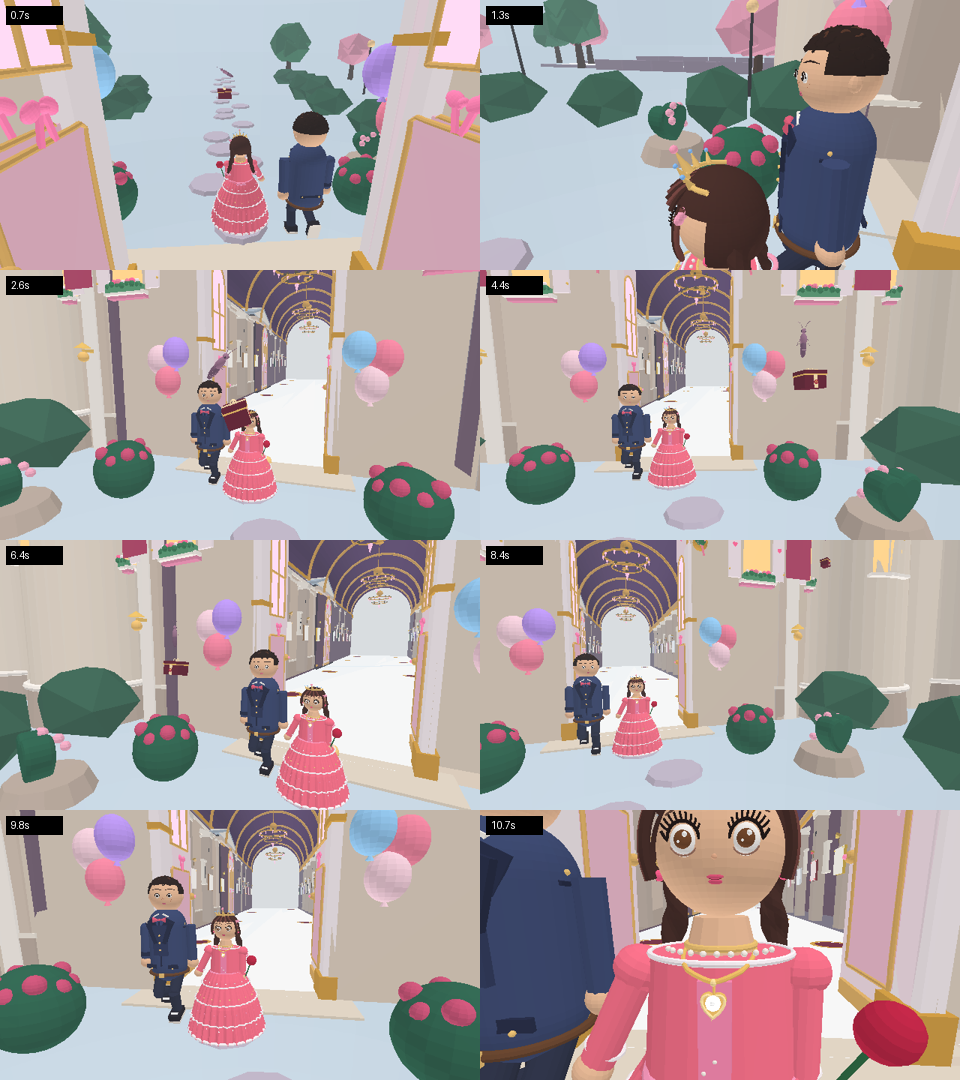
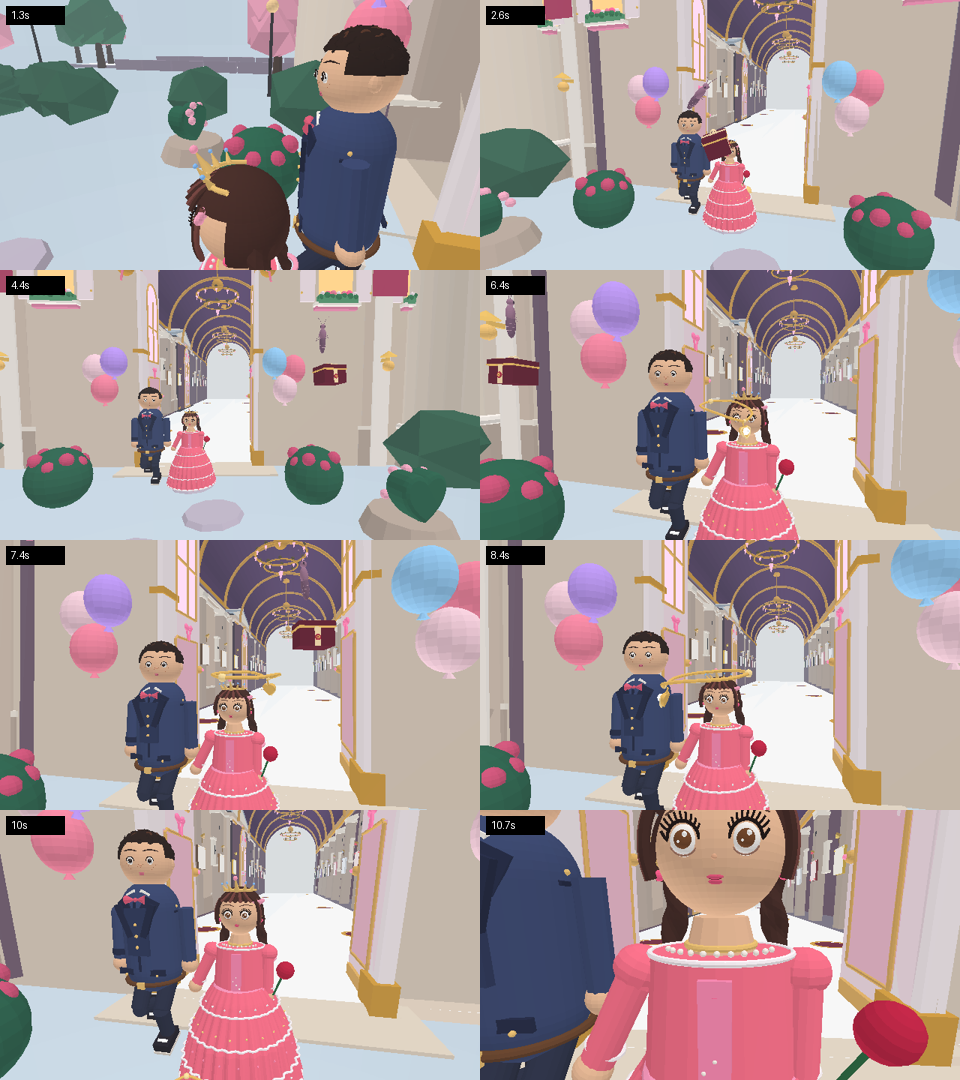
From the box opening, the necklace is the shot
The scene is about one object and the camera was filming everything
except it: the necklace rose out of the box behind the couple's
shoulders, two to three metres from any camera that could stand in the
garden, and the shot was pointed at the butterfly as she circled. At
that distance a five-centimetre pendant is nine pixels.

So the necklace turns in the open now (1.5 m in front of her, at her
eye level, a little to her side, rather than over her shoulder), and
from the moment the lid lifts the film travels in on it, along its own
aim line, to 0.78 m -- where the chain is about 170 px tall at 1080p and
the stone reads as a stone. It holds that through the turn, then hands
straight over to the pendant shot on her chest as it settles. Nobody's
back is in the shot at any point: the standoff is always on the garden
side of the pendant, so the camera is in front of them, not behind.

Also in this pass:

- the pendant used to spin at a constant rate, so it was showing its
  back whenever the camera happened to look; it now makes one slow turn
  that eases to a stop facing front, in time for the landing.
- the camera was passed null for the necklace's position and so was the
  test that was supposed to check this; both now use its real world
  position (the stone, not the chain's centre).
- the butterfly's flight had two teleports at stage joins (2.6 m and
  1.9 m in single frames); joins are blended, largest frame step 0.22 m.

153 tests, build clean.

diff --git a/src/gift-camera.js b/src/gift-camera.js
@@ -72,14 +72,19 @@ const FOLLOW_WEIGHT = [[0, 1], [1.15, 0], [11.5, 0], [GIFT_SECONDS, 1]];
 // has to stand somewhere that exists: the garden. That is also why it never orbits her at close range; the
 // doorway is 3 m wide and the walls are 3.85 m either side, and a swing round her at 2 m is a path through
 // masonry (measured: a sixth of the film was inside the wall, starting at 0.8 s).
-const OUT = [[0, -4.93], [0.7, -3.6], [1.3, -0.2], [2.0, 2.6], [2.6, 3.9], [5.4, 3.7], [7.6, 3.3], [9.4, 2.9], [10.0, 1.7], [10.7, 0.62], [11.4, 0.9], [11.9, 2.2], [12.3, 2.2], [GIFT_SECONDS, -4.93]];
+const OUT = [[0, -4.93], [0.7, -3.6], [1.3, -0.2], [2.0, 2.6], [2.6, 3.9], [5.0, 4.2], [6.2, 3.4], [9.2, 3.0], [10.2, 1.7], [10.7, 0.62], [11.4, 1.6], [11.9, 2.2], [12.3, 2.2], [GIFT_SECONDS, -4.93]];
 // Metres to the side of that axis (her right, when she is walking out).
 const SIDE = [[0, 0], [0.7, 0.42], [1.3, 0.72], [2.0, 1.0], [2.6, 0.95], [2.6, 0.95], [5.4, 0.85], [7.6, 0.72], [9.4, 0.6], [10.7, 0.06], [11.3, 0.6], [11.8, 1.0], [12.2, 1.1], [GIFT_SECONDS, 0]];
 // Height above her throat.
-const HEIGHT = [[0, 2.56], [0.7, 1.3], [1.3, 0.8], [2.0, 0.95], [2.6, 1.2], [5.4, 1.08], [7.6, 0.95], [9.4, 0.8], [10.0, 0.5], [10.7, 0.1], [11.4, 0.35], [11.9, 1.2], [12.3, 2.0], [GIFT_SECONDS, 2.56]];
-// How much of the frame belongs to the butterfly. Full through the open-the-box and the circle; dropped only at
-// the end, when the necklace is what we are looking at.
-const AIM_FAIRY = [[0, 0], [1.3, 0], [2.1, 0.85], [2.9, 1], [8.8, 1], [9.5, 0.2], [10.0, 0]];
+const HEIGHT = [[0, 2.56], [0.7, 1.3], [1.3, 0.8], [2.0, 0.95], [2.6, 1.2], [5.2, 0.8], [5.6, 0.5], [6.6, 0.55], [7.6, 0.52], [8.8, 0.48], [9.4, 0.45], [10.0, 0.42], [10.7, 0.1], [11.4, 0.35], [11.9, 1.2], [12.3, 2.0], [GIFT_SECONDS, 2.56]];
+// How much of the frame belongs to the butterfly: while she comes down with the box, and while the lid is
+// opening. From the moment the necklace leaves the box she is not the subject any more -- the necklace is -- so
+// this falls away before it lifts.
+const AIM_FAIRY = [[0, 0], [1.3, 0], [2.1, 0.85], [2.9, 1], [4.8, 1], [5.4, 0]];
+// How much belongs to the *necklace*, once it is out of the box and turning in the air. It is a small, bright
+// object against the castle, and it is the thing the whole scene is about: the camera holds it, close, rather
+// than filming the couple's backs while it floats past. Handed over to "on her neck" when it lands.
+const AIM_GIFT = [[0, 0], [5.0, 0], [5.5, 0.4], [6.4, 1], [9.2, 1], [9.7, 0]];
 // What it is pointed at when it is *not* the butterfly: her throat, sliding a little off dead centre once the
 // camera is round in front of her.
 const LOOK_AIM = [[0, 0], [9.6, 0], [10.4, 0.5], [11.0, 0.55], [GIFT_SECONDS, 0]];
@@ -106,11 +111,12 @@ function frameOf(couple) {
 // One frame of the film.
 //
 // `couple` is { x, z, yaw, neckY, focusY, follow }: her throat's height, the walking camera's aim, and the
-// walking camera's own position this frame (which the film starts and ends on). `fairy` is a world position or
-// null; `neck` is unused (the aim is authored, not chased). Returns the camera position, the look target, a
-// mild roll in radians, a 0..1 `closeness` for the caller's vignette, and the shot's name.
-export function giftCamera(t, couple, fairy, neck, out = {}) {
-  void neck;
+// walking camera's own position this frame (which the film starts and ends on). `fairy` is the butterfly's world
+// position while she is flying, or null. `necklace` is where the necklace is *this frame* -- in the box, in the
+// air, or on her -- and from 5.4 s it is what the film is pointed at.
+// Returns the camera position, the look target, a mild roll in radians, a 0..1 `closeness` for the caller's
+// vignette, and the shot's name.
+export function giftCamera(t, couple, fairy, necklace, out = {}) {
   const f = frameOf(couple);
   // The close-up stands *outside* the castle, and that is not the same as in front of her nose: a player can
   // leave the doorway at an angle, or even walking back towards the facade. `outYaw` is the direction that is
@@ -151,6 +157,7 @@ export function giftCamera(t, couple, fairy, neck, out = {}) {
   // Her throat, with the butterfly's weight on top of it. `fairy` is her world position (main.js passes it while
   // she is returning, null once she has gone); if it is missing the film simply behaves as it did before.
   const aimAtFairy = keyed(AIM_FAIRY, t) * (fairy ? 1 : 0) * (1 - w);
+  const aimAtGift = keyed(AIM_GIFT, t) * (necklace ? 1 : 0) * (1 - w);
   const aim = keyed(LOOK_AIM, t);
   const lookY = mix(neckY + keyed(LOOK_ABOVE, t), focusY, w);
   const neckAim = {
@@ -163,6 +170,7 @@ export function giftCamera(t, couple, fairy, neck, out = {}) {
   // dragging the camera up after her and leaving them out of the bottom of it.
   const fairyAimY = Math.min(Math.max(fairy ? fairy.y : neckY, neckY + 0.45), neckY + 0.86);
   const fairyAim = fairy ? { x: fairy.x, y: fairyAimY, z: fairy.z } : neckAim;
+  const giftAim = necklace ? { x: necklace.x, y: necklace.y, z: necklace.z } : neckAim;
   // Aim *between* them rather than at either: she circles at 2 m to the couple's side, and a camera that simply
   // points at her drops them out of the bottom of the frame -- which is what it looked like.
   const mid = {
@@ -170,7 +178,33 @@ export function giftCamera(t, couple, fairy, neck, out = {}) {
     y: mix(neckAim.y, fairyAim.y, 0.5),
     z: mix(neckAim.z, fairyAim.z, 0.5),
   };
-  const L = mix3(neckAim, mid, aimAtFairy);
+  // then to the necklace, which takes over from her throat as the subject as soon as it is in the air
+  const onFairy = mix3(neckAim, mid, aimAtFairy);
+  let L = mix3(onFairy, giftAim, aimAtGift);
+
+  // ---- and go to it, do not just look at it ----------------------------------
+  // Pointing at the necklace from across the garden is not a shot of the necklace. While it is in the air the
+  // camera travels *in along its own aim line*, so it ends up 1.6 m from the stone, with the castle behind it --
+  // and because that line already runs from the garden to the necklace, every point on it is in the open: this
+  // is the one way to get close without the shot walking into the doorway again.
+  if (necklace && aimAtGift > 0.001) {
+    const d = Math.hypot(P.x - giftAim.x, P.y - giftAim.y, P.z - giftAim.z);
+    // Half a metre. It is a five-centimetre pendant: at two metres it is a speck, at half a metre it is the
+    // subject. The necklace turns in the air a metre and a half *in front of her* (see giftAnchors), so the
+    // camera standing here is in the open garden with her behind the pendant -- never behind her.
+    // 0.78 m. At that range the chain is about 170 px tall at 1080p and the stone reads as a stone, not as a
+    // highlight; and it is still on the garden side of the pendant, so the shot is of the necklace with her
+    // behind it. Closer than about three quarters of a metre the standoff would have to jump to the *other* side
+    // of the pendant to stay out of her, which would be a cut -- and this film has no cuts.
+    const want = mix(d, 0.78, aimAtGift);
+    if (want < d) {
+      const k = want / d;
+      P.x = giftAim.x + (P.x - giftAim.x) * k;
+      P.y = giftAim.y + (P.y - giftAim.y) * k;
+      P.z = giftAim.z + (P.z - giftAim.z) * k;
+      L = { x: mix(L.x, giftAim.x, aimAtGift), y: mix(L.y, giftAim.y, aimAtGift), z: mix(L.z, giftAim.z, aimAtGift) };
+    }
+  }
 
   // And stand back far enough that both of them fit: a 55-degree lens sees 0.5 m of half-width per metre, so the
   // distance needed is the widest offset from the aim point divided by tan(24 deg), with room to breathe.

diff --git a/tests/gift-camera.test.js b/tests/gift-camera.test.js
@@ -131,7 +131,7 @@ test('the film leaves the doorway, watches the butterfly, then comes in for the 
   // 1. it gets out of the hall and stands off
   const garden = rel(5.4);
   assert.ok(garden.out > 2.6, `it is out in the garden by the hold (${garden.out.toFixed(2)} m out)`);
-  assert.ok(garden.y > 1.9 && garden.y < 3.4, `at head height for the butterfly (${garden.y.toFixed(2)} m)`);
+  assert.ok(garden.y > 1.5 && garden.y < 3.4, `at head height for the butterfly (${garden.y.toFixed(2)} m)`);
   // 2. it comes in close for the pendant
   const close = rel(10.7);
   assert.ok(close.out > 0.45 && close.out < 1.6, `in close at the settle (${close.out.toFixed(2)} m out)`);
@@ -230,15 +230,17 @@ test('the roll is a whisper, never a dutch angle', () => {
 
 test('it works wherever they come out of the castle and whichever way they face', () => {
   const yaws = [0, 0.9, Math.PI, -2.4, 7.1];
-  const base = at(6.0, { x: 0, z: 0, yaw: 0, outYaw: 0 }, { x: 1.2, y: 6.4, z: 0.6 });
+  // measured while the butterfly holds the box (the necklace dolly deliberately depends on where the necklace
+  // is that frame, which is not rigid -- that is the point of it)
+  const base = at(3.2, { x: 0, z: 0, yaw: 0, outYaw: 0 }, { x: 1.2, y: 2.4, z: 0.6 }, null);
   for (const yaw of yaws) {
     for (const x of [-14, 0, 9]) {
       // the film stands off along the outward axis, so a couple out in the open has one: their facing
       const couple = { x, z: 21, yaw, outYaw: yaw };
       // the butterfly's flight is built from where the couple are standing (see fairy.js beginReturn), so she is
       // always the same distance from them: that is what makes this framing rigid
-      const nearFairy = { x: x + 1.2, y: 6.4, z: 21 + 0.6 };
-      const p = at(6.0, couple, nearFairy);
+      const nearFairy = { x: x + 1.2, y: 2.4, z: 21 + 0.6 };
+      const p = at(3.2, couple, nearFairy, null);
       // the framing is rigid: distance from her is the same everywhere, only rotated
       const d = Math.hypot(p.position.x - x, p.position.z - 21);
       const dBase = Math.hypot(base.position.x, base.position.z);
@@ -300,7 +302,7 @@ test('the camera never goes inside the castle walls, and the wall check can only
   }
 });
 
-test('the butterfly is in the frame while she is the subject, and the couple never leave it', () => {
+test('each thing is the subject while it is the subject, and none of them is filmed from behind', () => {
   // The shot is *about* the butterfly, so she has to be in the picture while she presents the box and circles --
   // and the couple have to stay in it too, or the film is of two people's backs. The camera cannot simply point
   // at her: she circles 2 m to their side, which is what put them out of the bottom of the frame.
@@ -328,9 +330,58 @@ test('the butterfly is in the frame while she is the subject, and the couple nev
     proj.position.set(frame.position.x, frame.position.y, frame.position.z);
     proj.lookAt(frame.look.x, frame.look.y, frame.look.z);
     proj.updateMatrixWorld(true);
-    if (t >= 2.6 && t <= 9.2) {
+    // while the butterfly is bringing the box down, she has to be in the picture, and so do the couple --
+    // but only until the box is open. From then on she may leave the shot: the necklace is the subject.
+    if (t >= 2.6 && t <= 5.0) {
       assert.ok(inFrame(fairy.position), `the butterfly is out of frame at t=${t.toFixed(1)}`);
       assert.ok(inFrame({ x: HERE.x, y: HERE.neckY + 0.2, z: HERE.z }), `the couple are out of frame at t=${t.toFixed(1)}`);
     }
+  }
+});
+
+test('from the moment it leaves the box, the necklace is what the camera is pointed at', () => {
+  // It used to fly past behind their shoulders, out of focus, while the shot watched the butterfly. The whole
+  // scene is about this one object, so from 5.4 s (out of the box) to 9.8 s (on her neck) the aim *is* the
+  // necklace, and the camera is close enough for it to read -- and it is never behind her: the camera stands on
+  // the outward side of her, so the shot is of the necklace with her behind it, not of her back through it.
+  const cam = { x: 0, y: 3.70, z: 12.4 + 4.93 };
+  const couple = { ...HERE, follow: cam };
+  const proj = new THREE.PerspectiveCamera(55, 16 / 9, 0.05, 400);
+  const v = new THREE.Vector3();
+  // (the aim takes a fraction of a second to settle onto it as it clears the lid: it is fully on the necklace
+  // from 5.6, and from 5.4 it is most of the way there)
+  for (let t = 6.4; t <= 9.2; t += 0.2) {
+    // the necklace's real path, as the game flies it (see necklacePose): up out of the box, over her head
+    const k = Math.min(1, (t - 5.4) / 4.4);
+    const rise = Math.min(1, k / 0.45);
+    const e = rise * rise * (3 - 2 * rise);
+    const boxAt = { x: HERE.x, y: 1.5, z: HERE.z - 1.35 }; // in front of her (she faces -z)
+    const holdAt = { x: HERE.x, y: 2.05, z: HERE.z - 1.5 }; // held out in front of her (she faces -z here)
+    const toNeck = Math.min(1, Math.max(0, (k - 0.62) / 0.38));
+    const n = toNeck * toNeck * (3 - 2 * toNeck);
+    const at = {
+      x: boxAt.x + (holdAt.x - boxAt.x) * e,
+      y: boxAt.y + (holdAt.y - boxAt.y) * e + Math.sin(k * Math.PI * 2) * 0.06,
+      z: boxAt.z + (holdAt.z - boxAt.z) * e + ((HERE.z + 0.0) - holdAt.z) * n,
+    };
+    const frame = giftCamera(t, couple, null, at, {});
+    // it is the aim point
+    const toAim = Math.hypot(frame.look.x - at.x, frame.look.y - at.y, frame.look.z - at.z);
+    assert.ok(toAim < 0.02, `the aim is ${toAim.toFixed(2)} m off the necklace at t=${t.toFixed(1)}`);
+    // it is in the middle of the frame, not at the edge, and the camera is close to it
+    proj.position.set(frame.position.x, frame.position.y, frame.position.z);
+    proj.lookAt(frame.look.x, frame.look.y, frame.look.z);
+    proj.updateMatrixWorld(true);
+    v.set(at.x, at.y, at.z).project(proj);
+    assert.ok(Math.abs(v.x) < 0.35 && Math.abs(v.y) < 0.35, `the necklace is off centre at t=${t.toFixed(1)}`);
+    const d = Math.hypot(frame.position.x - at.x, frame.position.y - at.y, frame.position.z - at.z);
+    assert.ok(d < 3.0, `the camera is ${d.toFixed(2)} m from the necklace at t=${t.toFixed(1)}, too far for it to read`);
+    // and never behind her: it stands on her outward side, in the garden, so the shot is of the necklace with
+    // her behind it -- not of her back, through her
+    const outZ = (frame.position.x - HERE.x) * Math.sin(HERE.outYaw) + (frame.position.z - HERE.z) * Math.cos(HERE.outYaw);
+    assert.ok(outZ > 1.2, `the camera is behind her at t=${t.toFixed(1)} (${outZ.toFixed(2)} m out)`);
+    // and it is on the garden side of the pendant too, not between the pendant and her
+    const outAt = (at.x - HERE.x) * Math.sin(HERE.outYaw) + (at.z - HERE.z) * Math.cos(HERE.outYaw);
+    assert.ok(outZ > outAt, `the camera is inside her at t=${t.toFixed(1)} (${outZ.toFixed(2)} vs ${outAt.toFixed(2)})`);
   }
 });

diff --git a/src/main.js b/src/main.js
@@ -188,6 +188,7 @@ let wasInsideCastle = false;
 const giftNeck = new THREE.Vector3();
 const giftCamFrame = { position: new THREE.Vector3(), look: new THREE.Vector3(), roll: 0, closeness: 0, shot: 'find' };
 const giftCamClear = { x: 0, y: 0, z: 0 }; // the film's pose after the wall check
+const giftCamNecklace = new THREE.Vector3(); // the necklace's world position, for the film to aim at
 const giftCamFrom = new THREE.Vector3();
 const giftCamLookFrom = new THREE.Vector3();
 const giftCamLook = new THREE.Vector3();
@@ -721,7 +722,19 @@ function giftAnchors(outBox, outHold, outNeck) {
   const fx = Math.sin(yaw);
   const fz = Math.cos(yaw);
   outBox.set(p.x + fx * 1.35, 1.5, p.z + fz * 1.35);
-  outHold.set(p.x + fx * 0.75, 2.05, p.z + fz * 0.75);
+  // It turns in the air *in front of* her, not over her shoulder. The box opens at 1.35 m in front of her (the
+  // fairy holds it at arm's length), and the necklace used to come back to 0.75 m -- i.e. back over her own
+  // head, where a camera that wants to be in the garden cannot get within three metres of it, and a pendant at
+  // three metres is nine pixels. Held out at 1.5 m it is in the open, on the camera's side of her: the shot can
+  // stand 1.2 m away without going near the wall, and the stone fills the frame. From there it drops onto her
+  // neck, which is a move of half a metre rather than a metre.
+  // 1.62 m: her own eye level. At 2.05 it turned *above* both their heads, which put it in the same part of the
+  // sky as the balloons and read as a decoration hanging from nothing. At her eye level it is being held out to
+  // her, which is what is happening.
+  // held a little to her side, away from him, so the chain is seen against the castle instead of across his face
+  const rx = Math.cos(yaw);
+  const rz = -Math.sin(yaw);
+  outHold.set(p.x + fx * 1.5 + rx * 0.35, 1.62, p.z + fz * 1.5 + rz * 0.35);
   // where it settles: her own neck, in her body's frame (NECK_POSE in gift.js), converted to world
   outNeck.set(0, NECK_POSE.y, NECK_POSE.z);
   hero.dressSpace.localToWorld(outNeck);
@@ -775,6 +788,10 @@ function updateGift(dt) {
     gift.worn = true;
   }
   necklace.update(t, dt, gift.worn ? 1 : 0.55, gift.worn ? null : pose.swing ?? null);
+  // the film needs to know where it is: the pendant's own world position, which is what has to be in focus
+  // (the group's origin is the chain's centre, not the stone)
+  necklace.group.updateWorldMatrix(true, true);
+  (necklace.gem ?? necklace.group).getWorldPosition(giftCamNecklace);
 
   // The garden answers at 'glow': the castle's own lights come up to full, then settle. They are left at
   // 1, which is the state they are in for the whole game anyway, so there is nothing to put back.
@@ -836,7 +853,9 @@ function placeGiftCamera(dt) {
     outYaw: 0,
   },
   introFairy.returning ? introFairy.position : null,
-  gift.t >= 9.8 ? giftNeck : null,
+  // where the necklace actually is this frame: in the box, in the air, or on her neck. From 5.4 s it is the
+  // subject of the shot, so the film is pointed at it -- not at the couple, and not at the butterfly.
+  giftCamNecklace,
   giftCamFrame);
   if (blend <= 0) return; // the walking camera has the view back: do not write over it
   // The film's own pose is checked against the castle the same way the walking camera's is: cast from the aim

diff --git a/src/gift.js b/src/gift.js
@@ -116,7 +116,11 @@ export function necklacePose(t, { boxAt, neckAt, holdAt }) {
     at.y += (neckAt.y - holdAt.y) * n;
     at.z += (neckAt.z - holdAt.z) * n;
     at.scale = Math.min(NECK_WEAR_SCALE, 0.15 + k * 2.4);
-    at.spin = t * 2.4;
+    // One slow turn, easing to a stop *facing front*. It used to spin at a constant rate, which meant it was
+    // showing its back at whatever moment the camera happened to be looking at it -- and now that it is the
+    // subject of the shot, "which way is it facing" is the whole picture. Ending on a whole turn leaves the
+    // pendant face-on for the moment it lands.
+    at.spin = Math.PI * 2 * (k * k * (3 - 2 * k));
     return at;
   }
   if (t < 11.6) {

diff --git a/src/necklace.js b/src/necklace.js
@@ -215,5 +215,7 @@ export function createNecklace(track = (o) => o) {
     return { meshes, lines };
   })();
 
-  return { group, worn, update, heart, counts };
+  // `gem` is exported so the film can aim at the *stone* rather than at the chain's centre: the stone is the
+  // thing that has to be sharp, and it sits a few centimetres below the group's origin.
+  return { group, worn, update, heart, gem, counts };
 }
